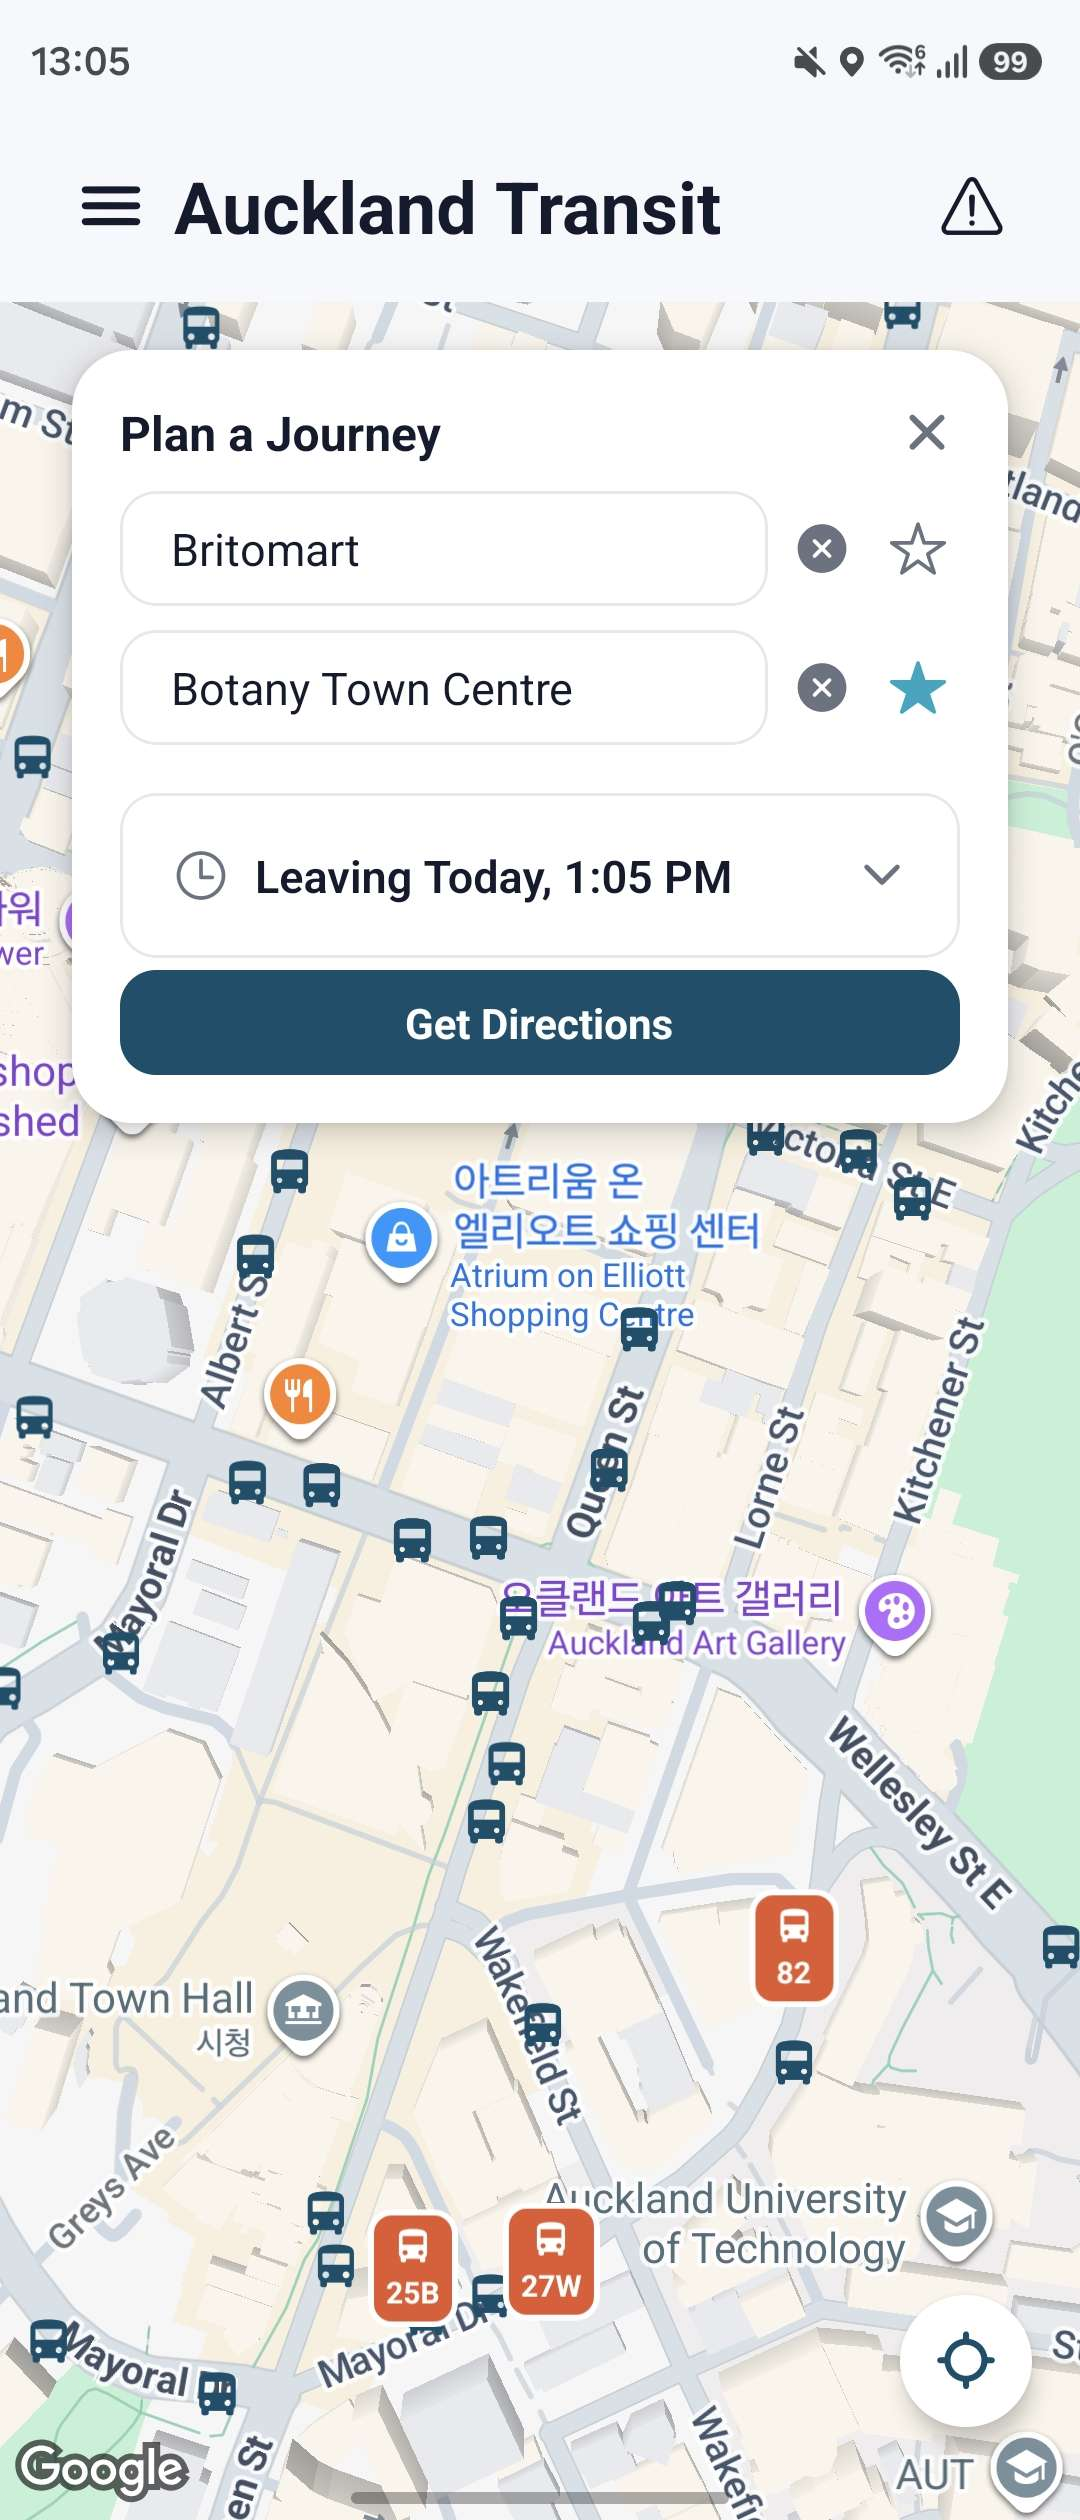
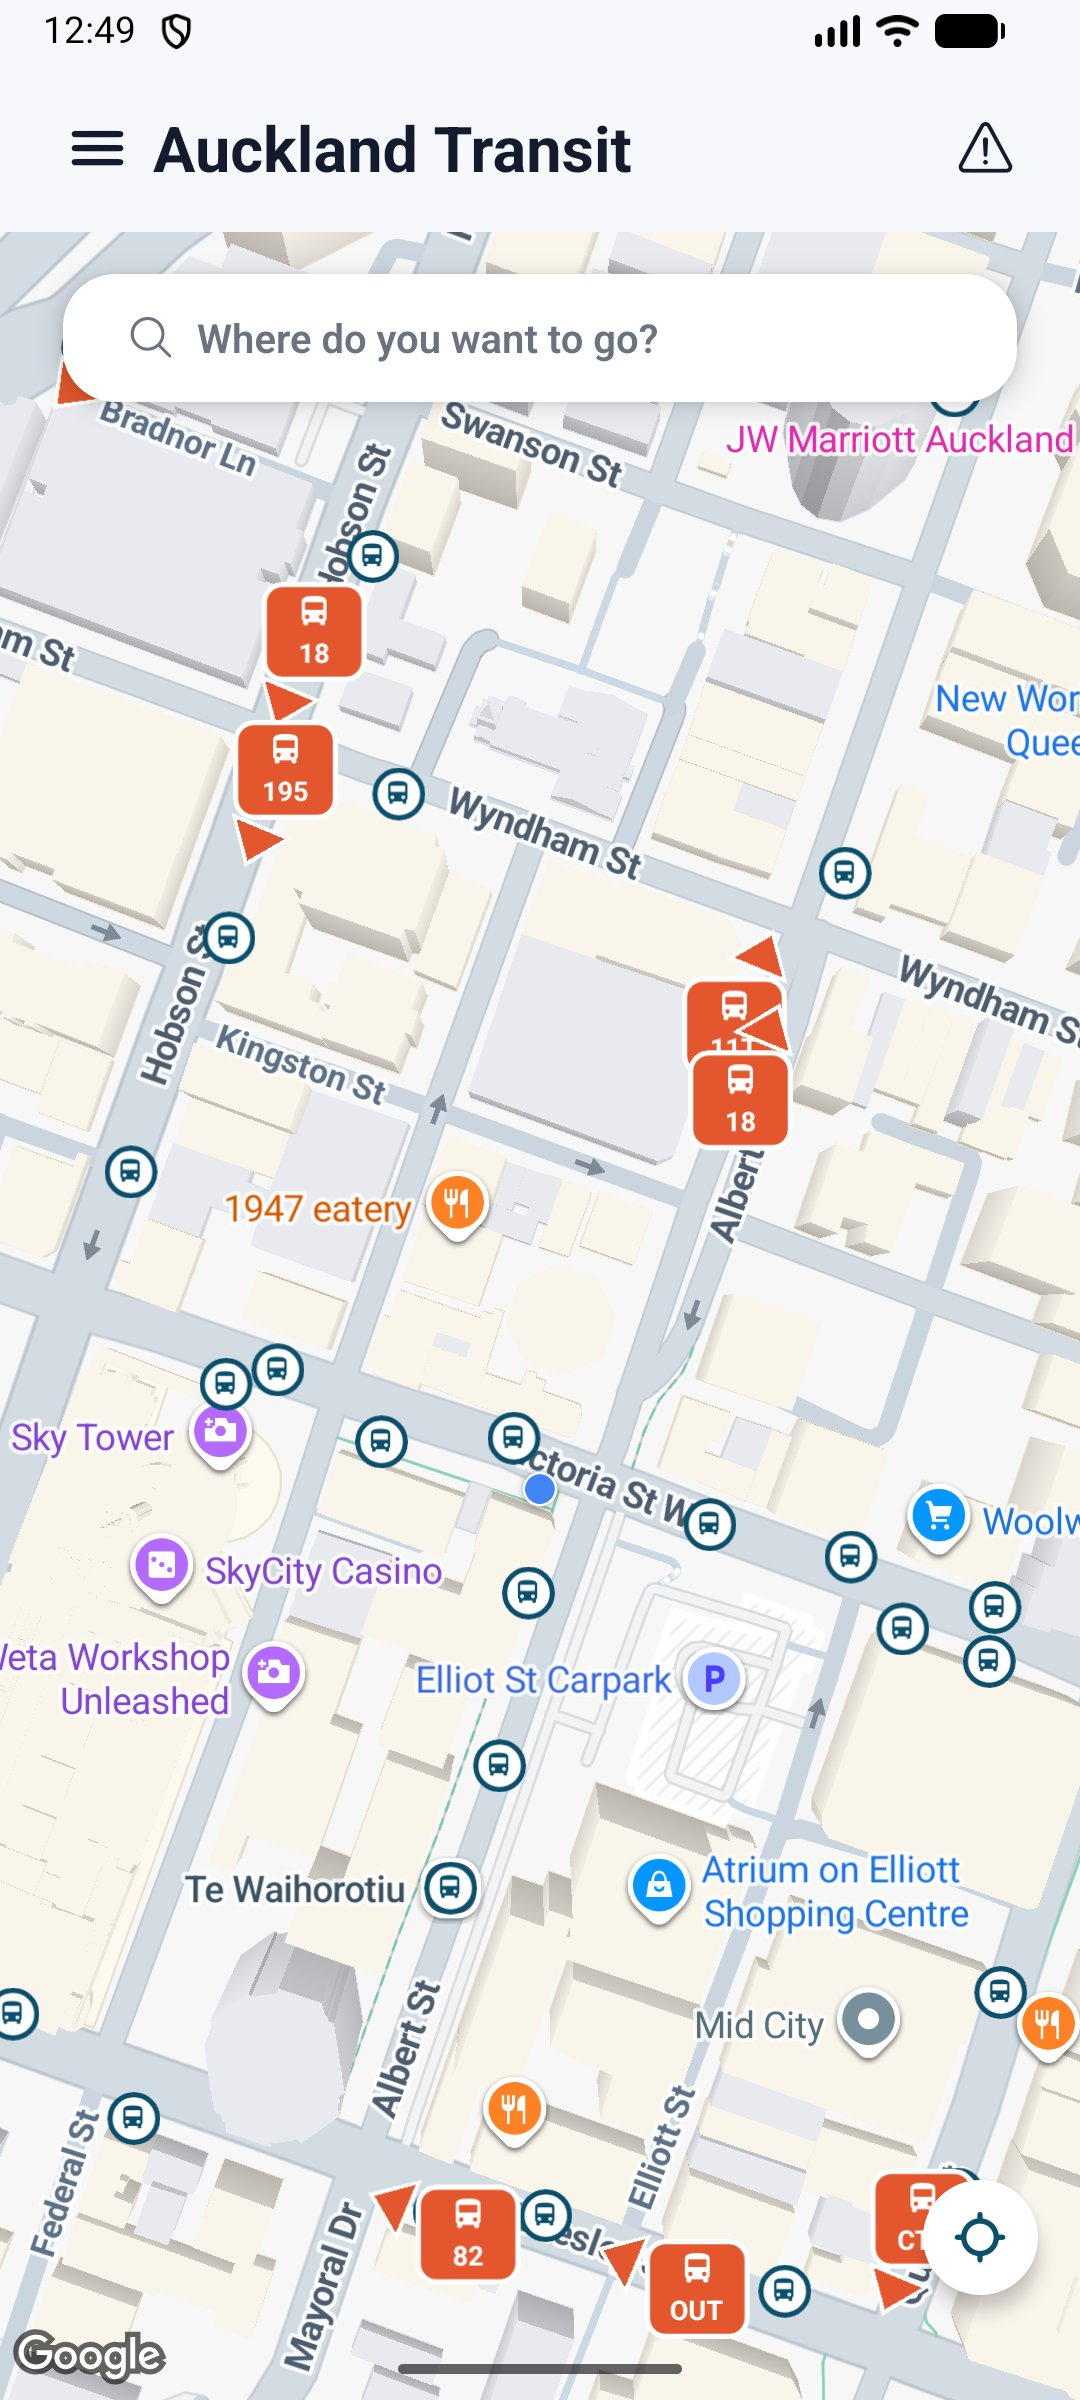
Refresh Auckland Transit screenshots in portfolio carousel
Same refresh as the app's own README: the old screenshots predated
the color theme, icon, heading-arrow badges, bordered stop markers,
and per-leg stop list. New ones taken from a local Android emulator
(light mode, GPS faked to a public landmark, no real device involved).

diff --git a/docs/portfolio.html b/docs/portfolio.html
@@ -106,9 +106,9 @@ redirect_from:
       <div class="project-carousel">
         <button class="carousel-arrow carousel-prev" aria-label="Previous image">‹</button>
         <div class="carousel-viewport">
-          <img class="project-screenshot-mobile carousel-slide active" src="{{ '/images/projects/auckland-transit-plan-journey.jpg' | relative_url }}" alt="Auckland Transit journey planner with live bus stops shown on map" />
+          <img class="project-screenshot-mobile carousel-slide active" src="{{ '/images/projects/auckland-transit-plan-journey.jpg' | relative_url }}" alt="Auckland Transit live map with heading-direction vehicle badges and bordered stop markers" />
           <img class="project-screenshot-mobile carousel-slide" src="{{ '/images/projects/auckland-transit-route-options.jpg' | relative_url }}" alt="Auckland Transit route options showing travel times and transfers" />
-          <img class="project-screenshot-mobile carousel-slide" src="{{ '/images/projects/auckland-transit-route-preview.jpg' | relative_url }}" alt="Auckland Transit turn-by-turn route preview with fare estimate" />
+          <img class="project-screenshot-mobile carousel-slide" src="{{ '/images/projects/auckland-transit-route-preview.jpg' | relative_url }}" alt="Auckland Transit route preview with the full per-leg stop list and fare estimate" />
         </div>
         <button class="carousel-arrow carousel-next" aria-label="Next image">›</button>
       </div>
